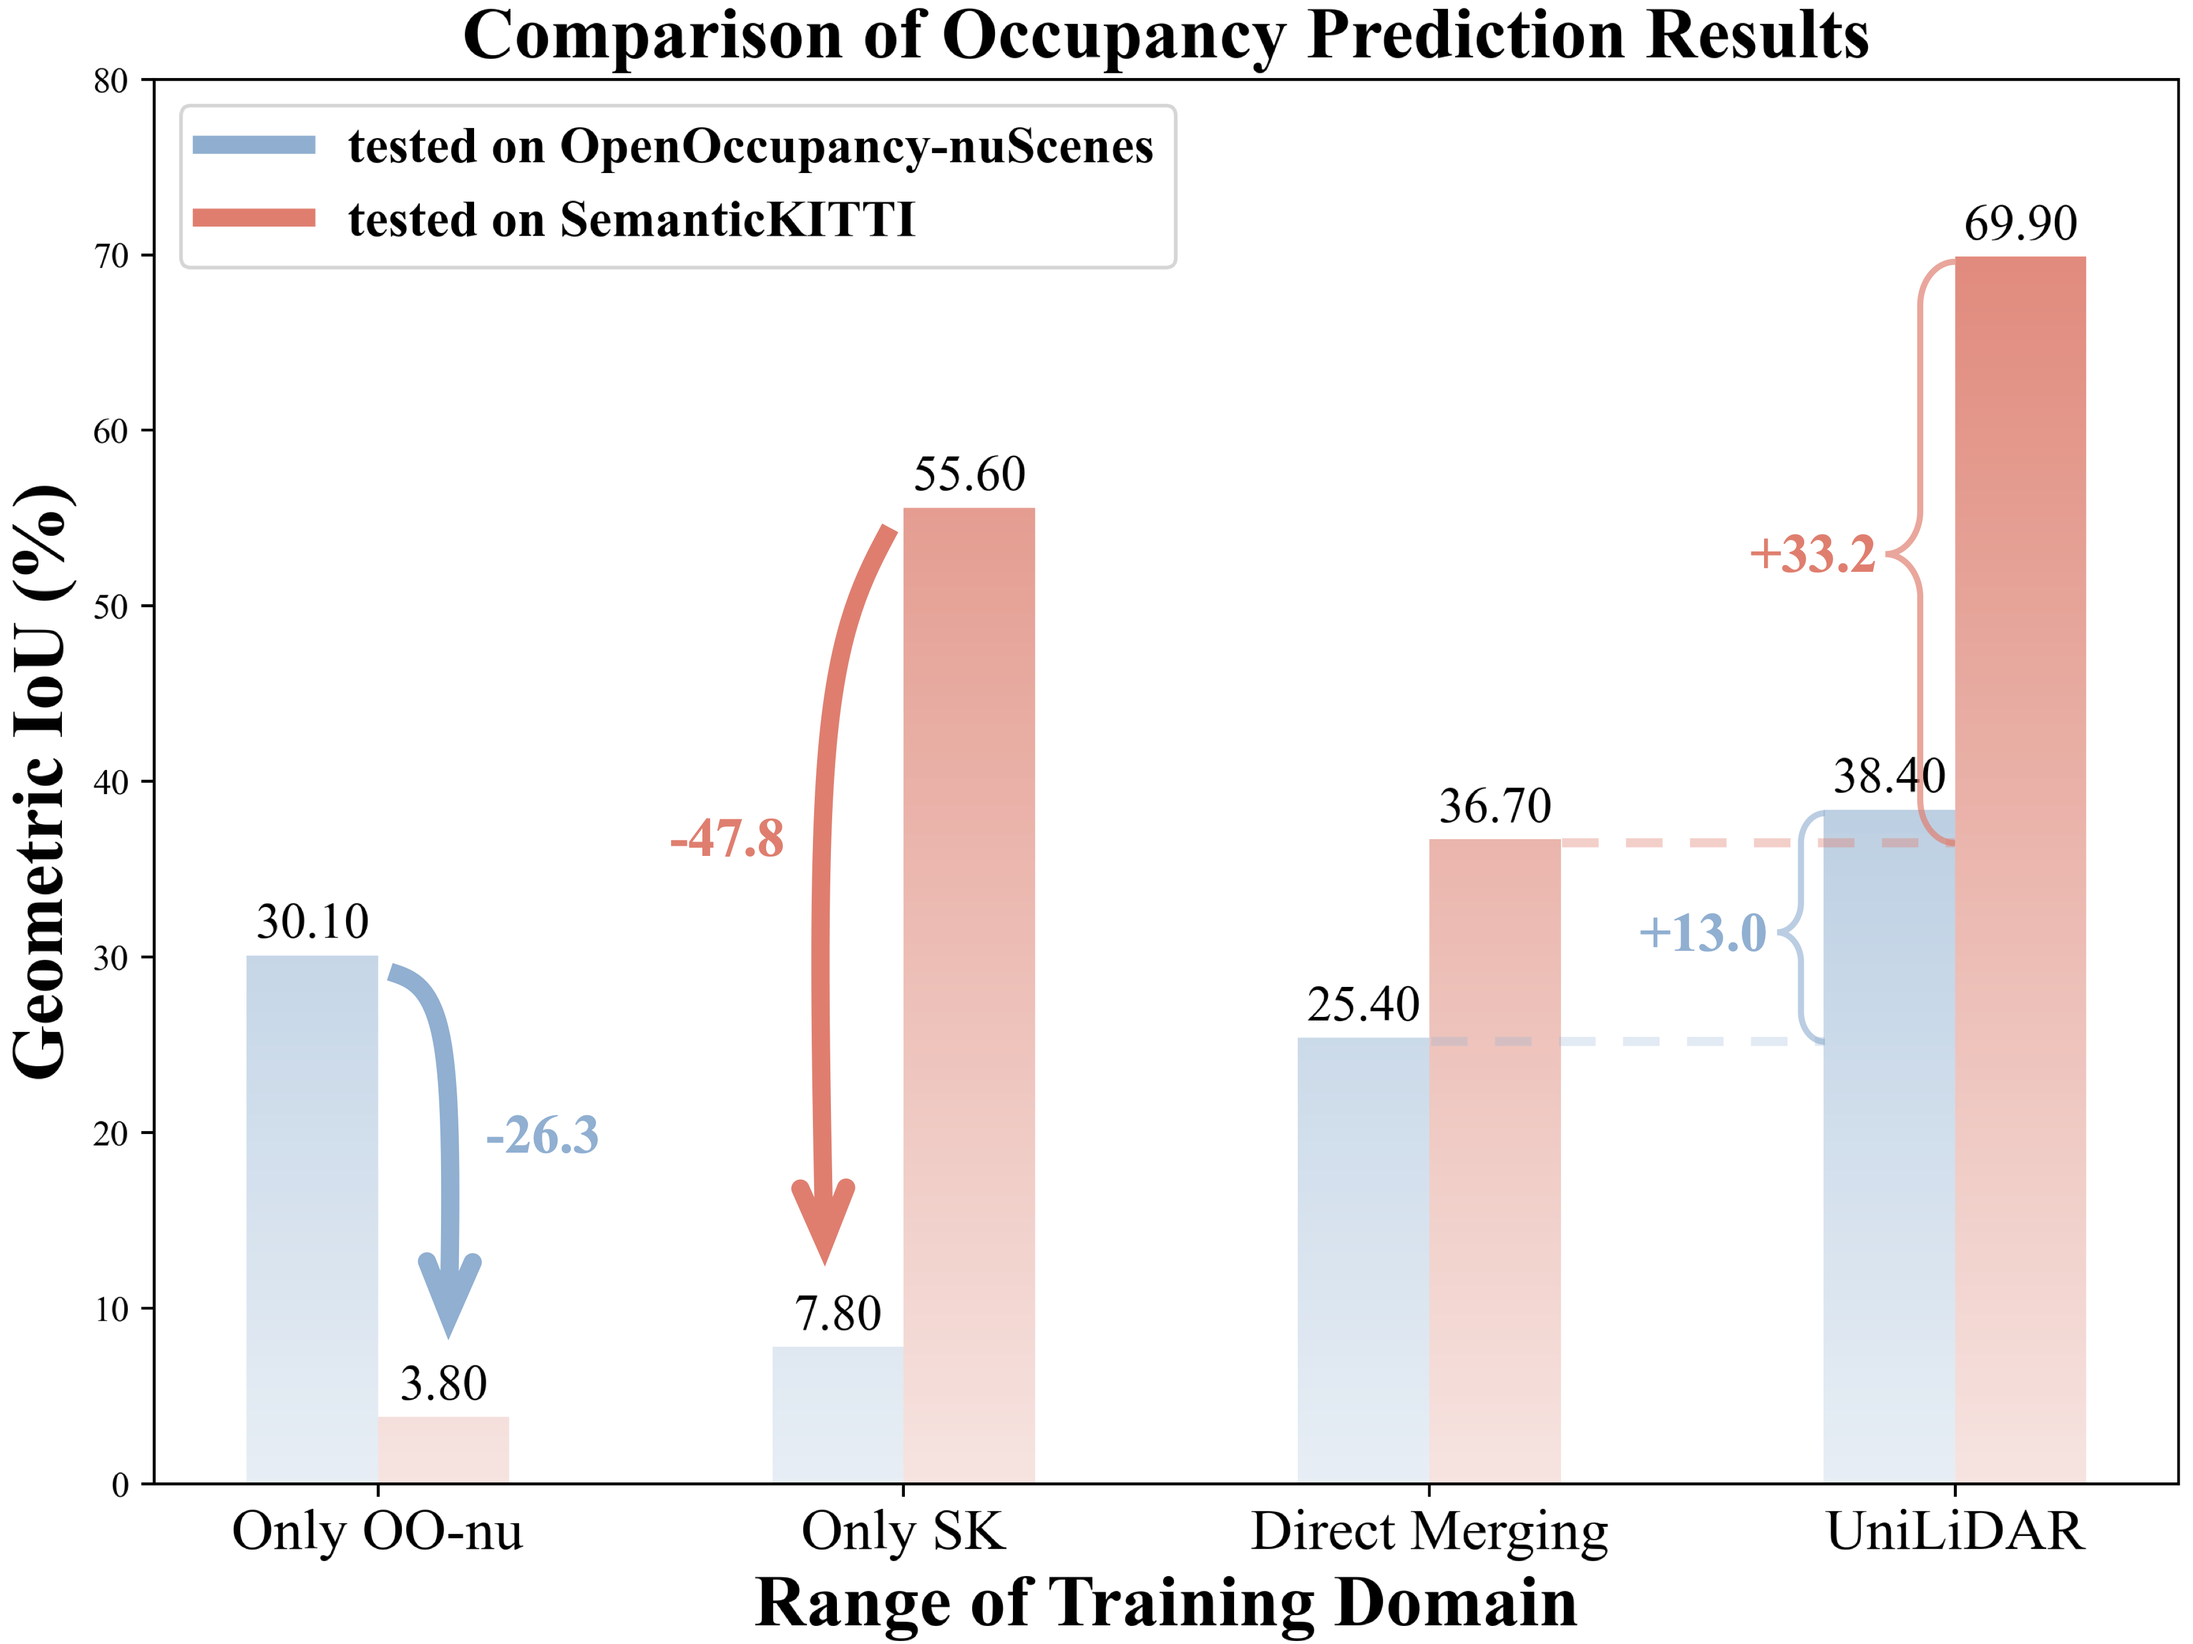
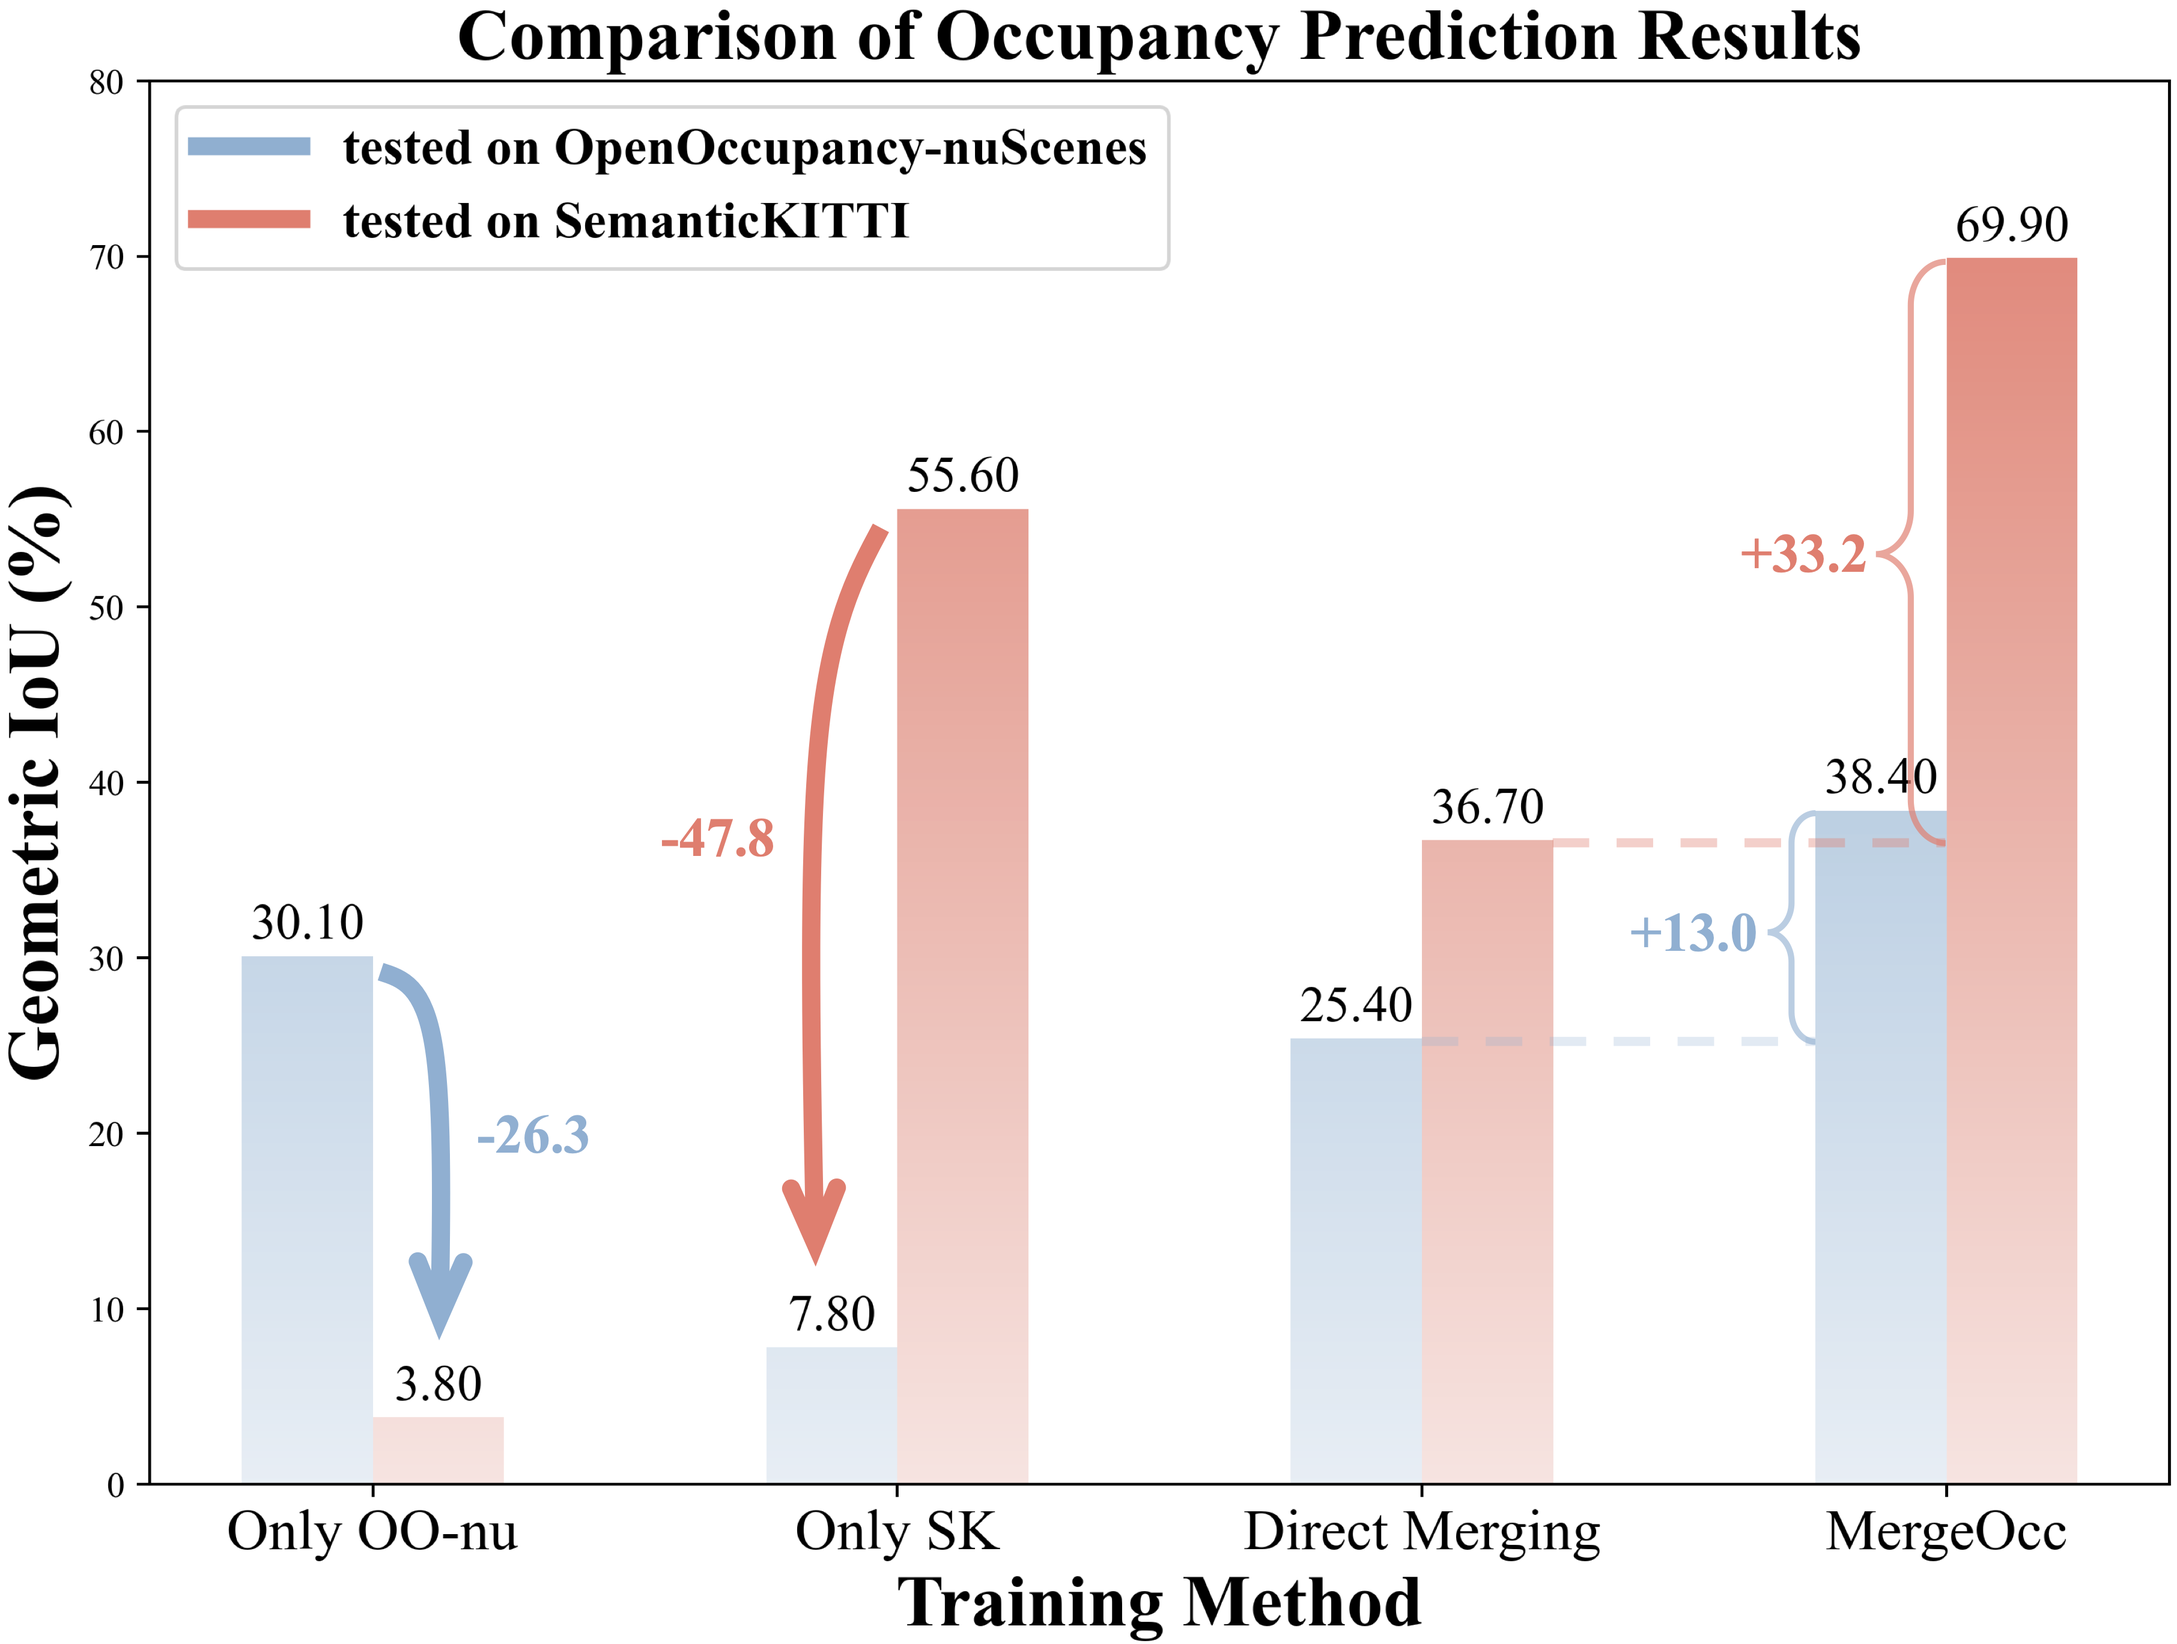
mergeocc

diff --git a/README.md b/README.md
@@ -1,10 +1,14 @@
-# UniLiDAR: Bridge the domain gap among different LiDARs for continual learning
+# MergeOcc: Bridge the domain gap between different LiDARs for robust occupancy prediction
 
 # Abstract
 
-LiDAR-based 3D perception algorithms have evolved rapidly alongside the emergence of large datasets. Nonetheless, considerable performance degradation often ensues when models trained on a specific dataset are applied to other datasets or real-world scenarios with different LiDAR.  
-This paper aims to develop a unified model capable of handling different LiDARs, enabling continual learning across diverse LiDAR datasets and seamless deployment across heterogeneous platforms. We observe that the gaps among datasets primarily manifest in geometric disparities (such as variations in beams and point counts) and semantic inconsistencies (taxonomy conflicts). 
-To this end, this paper proposes UniLiDAR, an occupancy prediction pipeline that leverages geometric realignment and semantic label mapping to facilitate multiple datasets training and mitigate performance degradation during deployment on heterogeneous platforms. Moreover, our method can be easily combined with existing 3D perception models. The efficacy of the proposed approach in bridging LiDAR domain gaps is verified by comprehensive experiments on two prominent datasets: OpenOccupancy-nuScenes and SemanticKITTI. UniLiDAR elevates the mIoU of occupancy prediction by $\textbf{15.7\%}$ and $\textbf{12.5\%}$, respectively, compared to the model trained on the directly merged dataset. Moreover, it outperforms several SOTA methods trained on individual datasets. We expect our research to facilitate further study of 3D generalization, the code will be available soon.
+LiDAR-based 3D occupancy prediction algorithms have evolved rapidly alongside the emergence of large datasets. Nevertheless, considerable performance degradation often ensues when models trained on a specific dataset are applied to real-world scenarios with disparate LiDAR.  
+This research aims to develop a generalized model capable of handling different LiDARs simultaneously, bridging the domain gap to facilitate seamless deployment across heterogeneous platforms. We observe that the gaps among LiDAR datasets primarily manifest in geometric disparities (such as variations in beams and point counts) and semantic inconsistencies (scenario diversity and taxonomy conflicts). 
+To this end, this paper proposes MergeOcc, an occupancy prediction pipeline that employs geometric realignment and semantic label mapping to facilitate multiple datasets training (MDT) and mitigate cross-LiDAR issues. 
+The efficacy of MergeOcc is validated through comprehensive experiments on two prominent datasets: OpenOccupancy-nuScenes and SemanticKITTI.
+MergeOcc demonstrates extra robustness and outstanding performance simultaneously across both types of LiDARs, outperforming several SOTA multi-modality methods.
+Furthermore, while using identical model architecture and hyper-parameters, MergeOcc significantly surpasses the baseline owing to exposure to larger and more diverse data, which is unprecedented in the realm of 3D perception.
+We anticipate increased attention to the MDT paradigm.
 
 # Getting Started
 
@@ -31,5 +35,3 @@ Many thanks to these excellent projects:
 - [SurroundOcc](https://github.com/weiyithu/SurroundOcc)
 - [MonoScene](https://github.com/astra-vision/MonoScene)
 - [Unidet](https://github.com/xingyizhou/UniDet)
-
-# unilidar_simple

diff --git a/docs/prepare_data.md b/docs/prepare_data.md
@@ -3,7 +3,7 @@
 **1. Download nuScenes V1.0 full dataset data [HERE](https://www.nuscenes.org/download). Folder structure:**
 
 ```
-unilidar_simple
+mergeocc_simple
 ├── data/
 │   ├── nuscenes/
 │   │   ├── maps/
@@ -17,7 +17,7 @@ unilidar_simple
 **2. Download the generated [train](https://github.com/JeffWang987/OpenOccupancy/releases/tag/train_pkl)/[val](https://github.com/JeffWang987/OpenOccupancy/releases/tag/val_pkl) pickle files and put them in data. Folder structure:**
 
 ```
-unilidar_simple
+mergeocc_simple
 ├── data/
 │   ├── nuscenes/
 │   │   ├── maps/
@@ -36,7 +36,7 @@ python ./tools/gen_data/gen_depth_gt.py
 ```
 **Folder structure:**
 ```
-unilidar_simple
+mergeocc_simple
 ├── data/
 │   ├── nuscenes/
 │   ├── depth_gt/
@@ -57,7 +57,7 @@ mv nuScenes-Occupancy-v0.1 nuScenes-Occupancy
 **Folder structure:**
 
 ```
-unilidar_simple
+mergeocc_simple
 ├── data/
 │   ├── nuscenes/
 │   ├── depth_gt/
@@ -69,7 +69,7 @@ unilidar_simple
 **1. Download the semanticKITTI dataset [HERE](https://http://www.semantic-kitti.org/dataset.html), Folder structure:*
 
 ```
-unilidar_simple
+mergeocc_simple
 ├── data/
 │   ├── nuscenes/
 │   ├── depth_gt/
@@ -95,7 +95,7 @@ unilidar_simple
 **2. Download the generated [train](https://drive.google.com/file/d/1AlbseAbUkBrVjEZTbDbYcsA3l6LqqTEO/view?usp=drive_link)/[val](https://drive.google.com/file/d/1gF7rHdZqzcu2mwjzflKF5jcE-wOue0CI/view?usp=drive_link) /[test](https://drive.google.com/file/d/1InCnqx2oIKxIB9Kjb89RPcLood-a__2q/view?usp=drive_link) pickle files and put them in data. Folder structure:**
 
 ```
-unilidar_simple
+mergeocc_simple
 ├── data/
 │   ├── nuscenes/
 │   ├── depth_gt/
@@ -109,7 +109,7 @@ unilidar_simple
 **Folder structure:**
 
 ```
-unilidar_simple
+mergeocc_simple
 ├── data/
 │   ├── nuscenes/
 │   ├── depth_gt/
